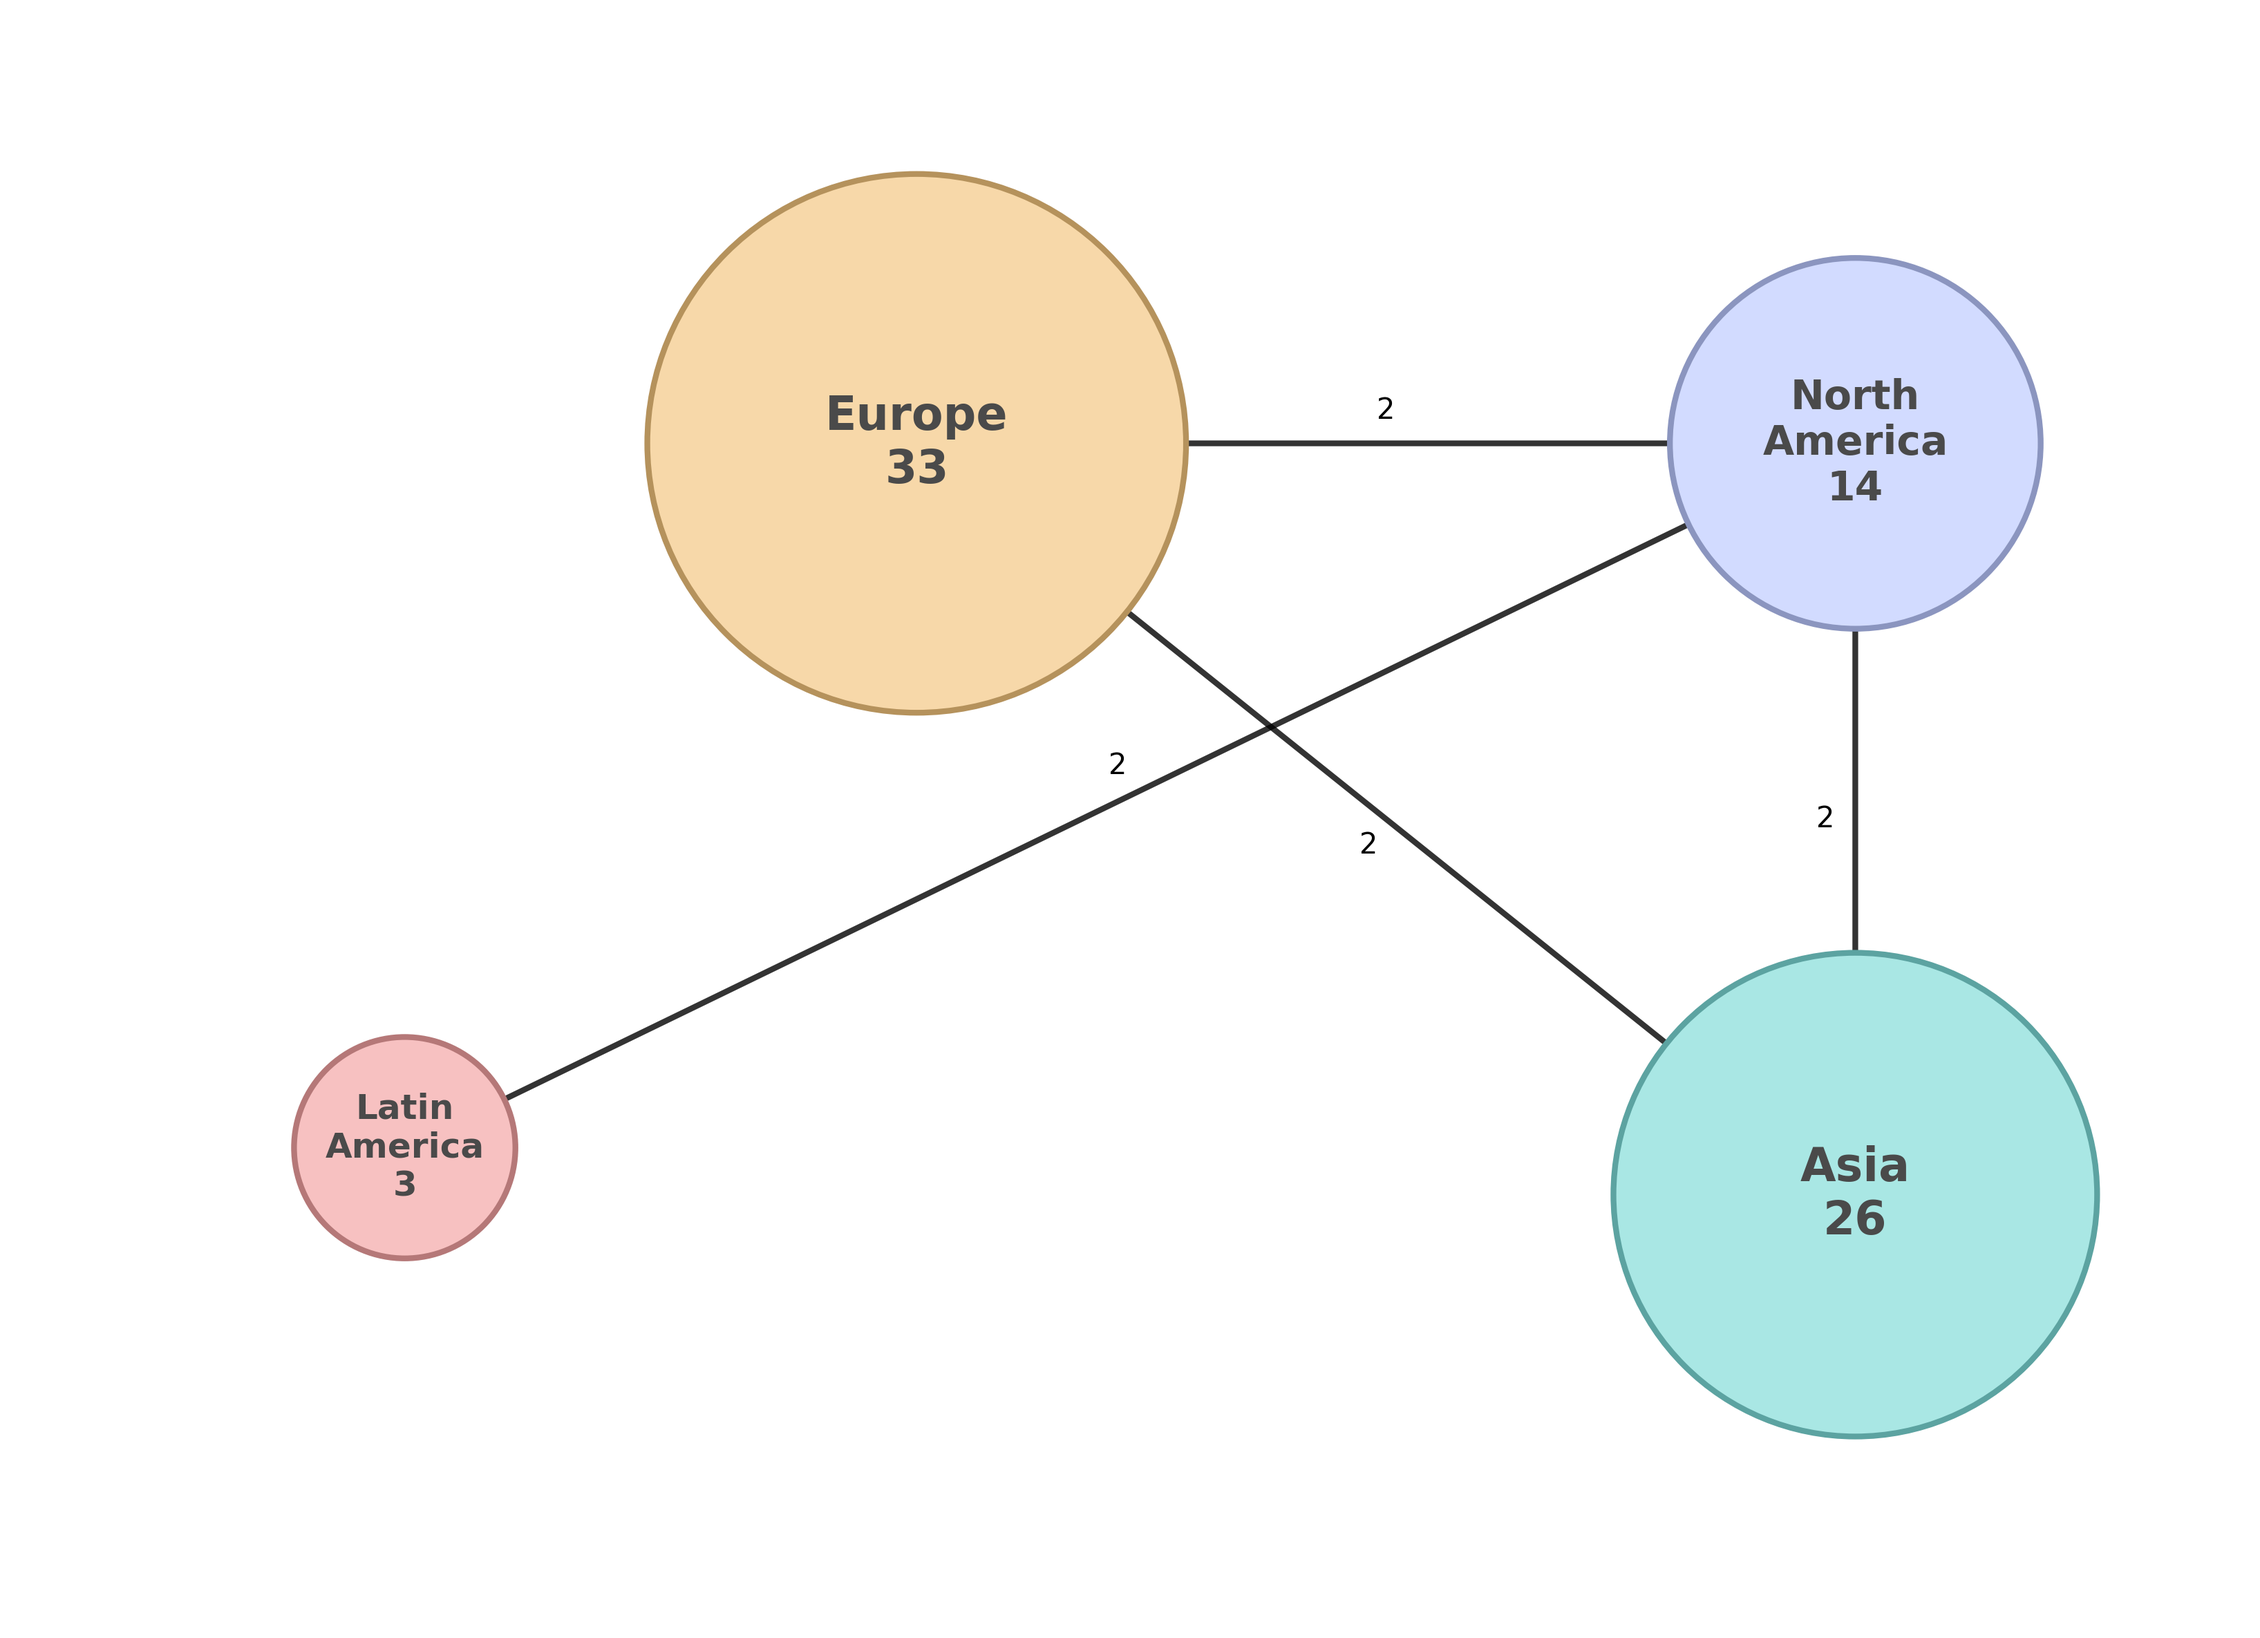
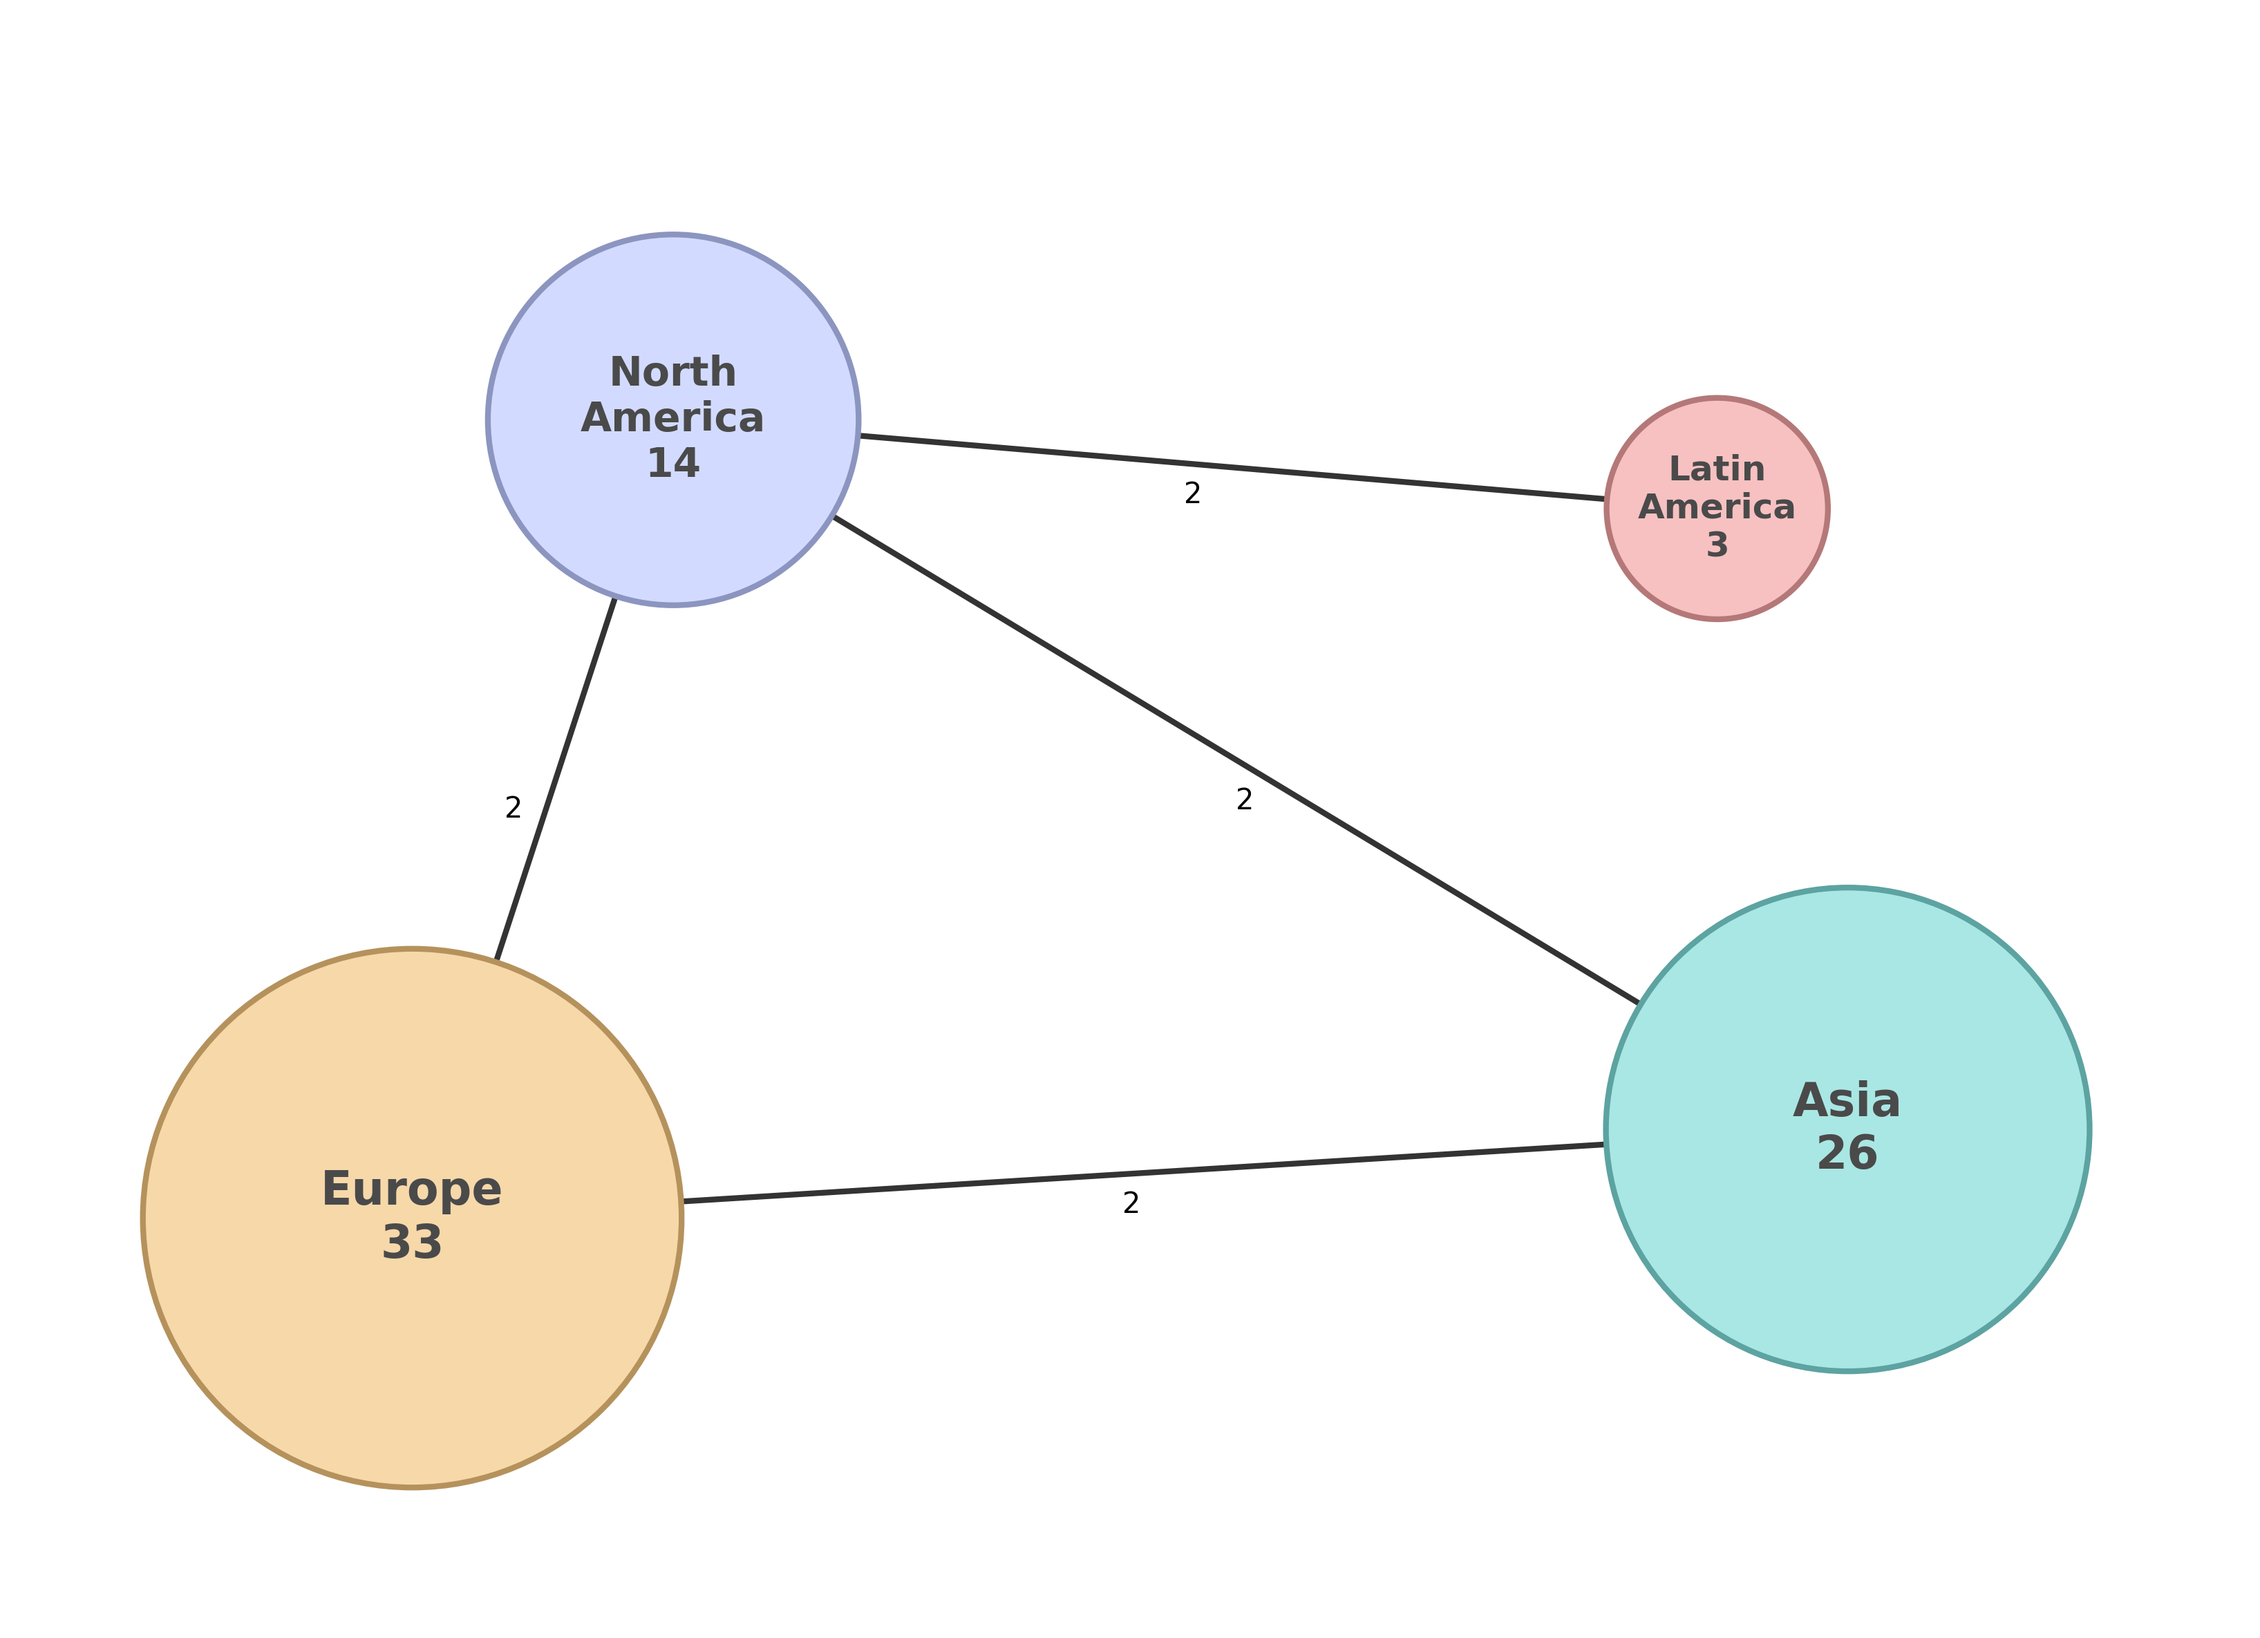
comments fixed

diff --git a/Analysis.py b/Analysis.py
@@ -312,11 +312,11 @@ def make_fig3(node_counts, edges_two, edges_three_plus, outpath="Fig3_cross_cont
 
     # Fixed "paper-like" positions
     pos = {
-        "Europe": (-0.15,  0.70),
-        "North America": ( 0.95,  0.70),
-        "Asia":          ( 0.95, -0.10),
+        "Europe": (-0.70, -0.20),          # left lower
+        "North America": (-0.40, 0.70),    # upper left
+        "Asia":          (0.95, -0.10),
         "Australia Oceania": (0.30, -0.70),
-        "Latin America": (-0.75, -0.05),
+        "Latin America": (0.80, 0.60),     # upper right
         "Africa":        (-0.55, -0.75),
         "Not mentioned": (0.10, -0.05),
     }
@@ -381,7 +381,6 @@ def make_fig3(node_counts, edges_two, edges_three_plus, outpath="Fig3_cross_cont
         return 0.5 + 1.5 * (w / max_edge)
 
     def edge_rad(a, b):
-        # Straight line (no curvature)
         return 0.0
 
     fig, ax = plt.subplots(figsize=(11, 8))
@@ -400,6 +399,7 @@ def make_fig3(node_counts, edges_two, edges_three_plus, outpath="Fig3_cross_cont
 
     # Draw edges as curved arrows (solid = 2-continent, dashdot = 3+)
     def draw_arrow(a, b, w, style="solid", alpha=0.75):
+        rad = edge_rad(a, b)
         arrow = mpatches.FancyArrowPatch(
             posA=pos[a], posB=pos[b],
             arrowstyle='-|>',              # arrow head
@@ -408,7 +408,7 @@ def make_fig3(node_counts, edges_two, edges_three_plus, outpath="Fig3_cross_cont
             linestyle=style,
             color="black",
             alpha=alpha,
-            connectionstyle="arc3,rad=0.0",
+            connectionstyle=f"arc3,rad={rad}",
             shrinkA=18, shrinkB=18,        # keeps arrow from touching node edge
         )
         ax.add_patch(arrow)
